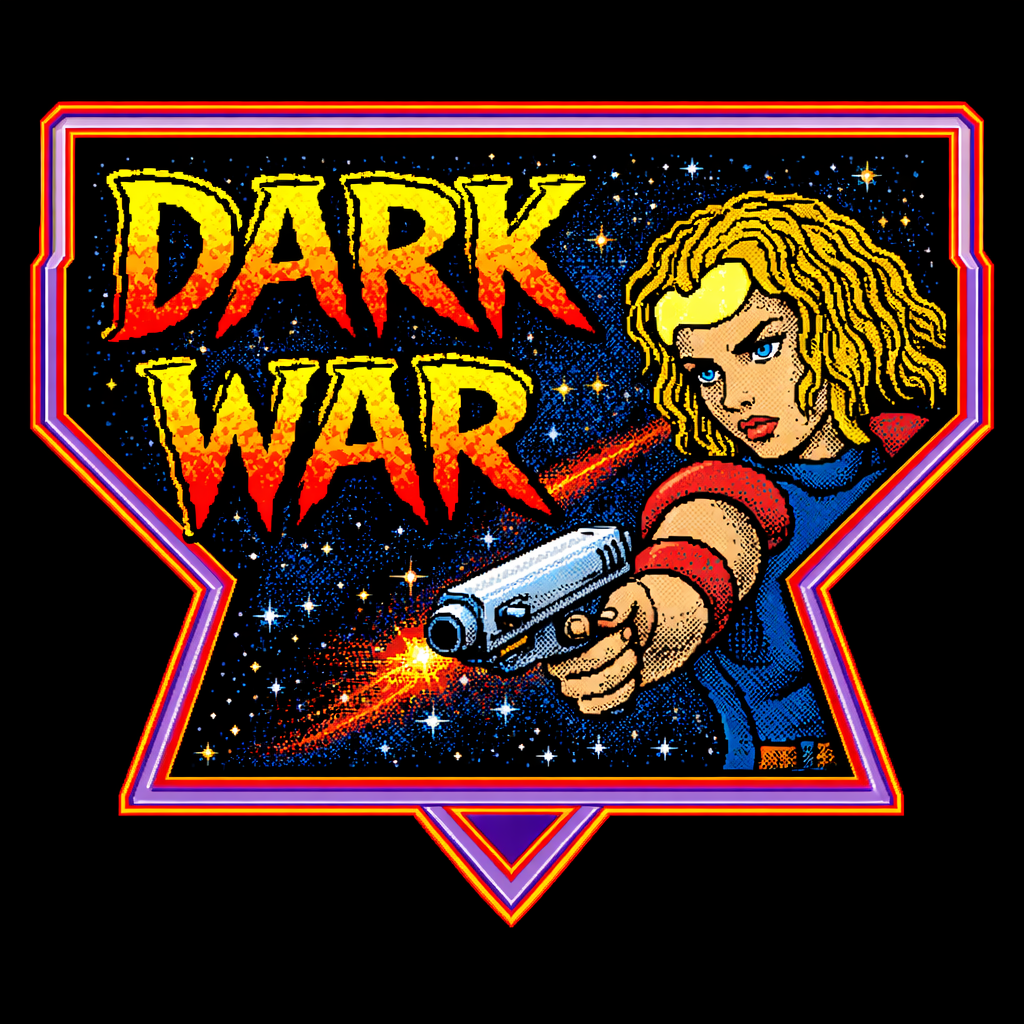
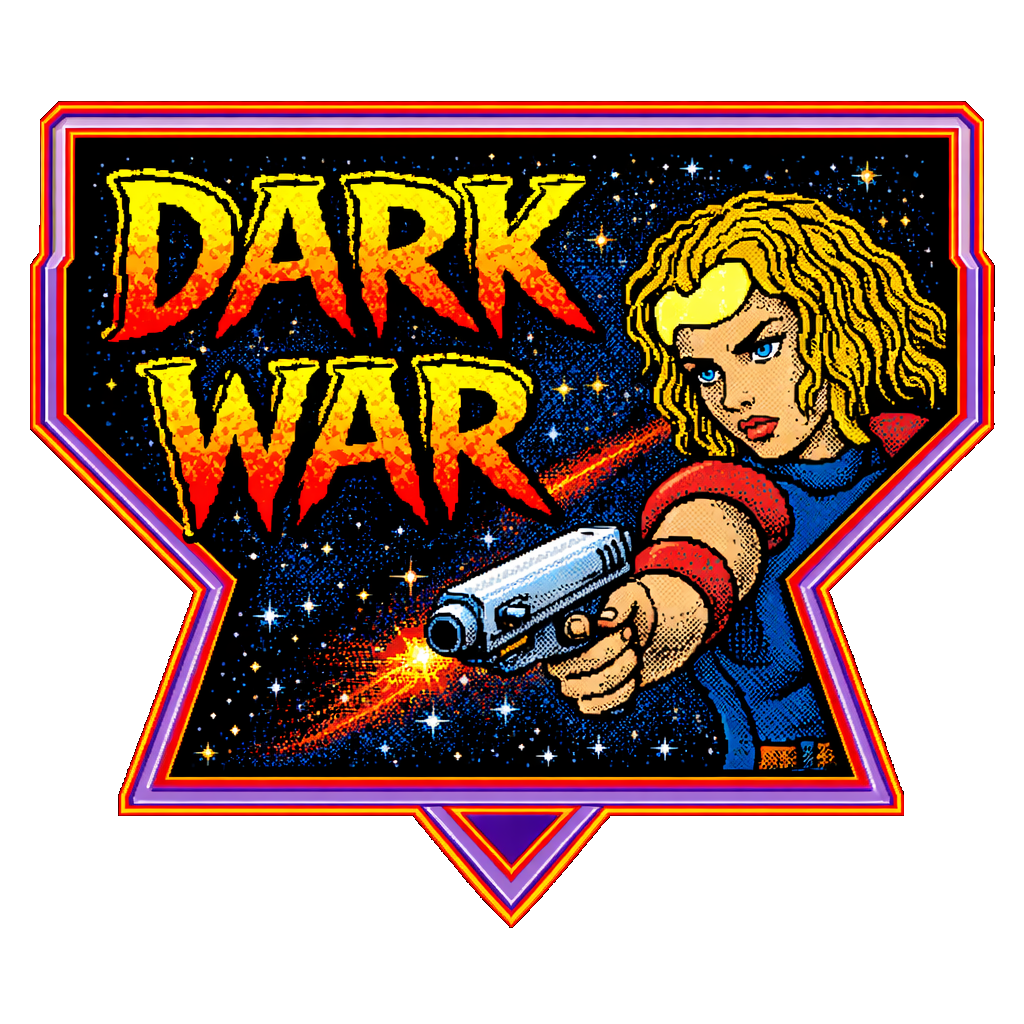
feat: improve title screens

diff --git a/src/systems/TitleScreen.ts b/src/systems/TitleScreen.ts
@@ -18,11 +18,72 @@ export class TitleScreen {
     const num = Math.floor(Math.random() * 7) + 1;
     const el = document.createElement("div");
     el.className = "title-screen";
-    el.innerHTML = `
-      <img src="assets/img/title-${num}.png" class="title-image" alt="Dark War" />
-      <div class="press-any-key">Press any key to start...</div>
-    `;
+
+    // Image starts invisible; shown after canvas processing removes the
+    // black background so there is no flash of the original black-bg version.
+    const img = document.createElement("img");
+    img.className = "title-image title-image--loading";
+    img.alt = "Dark War";
+
+    const text = document.createElement("div");
+    text.className = "press-any-key";
+    text.textContent = "Press any key to start...";
+
+    el.appendChild(img);
+    el.appendChild(text);
+
+    // Load image off-screen, strip black pixels, then reveal the result
+    const loader = new Image();
+    loader.src = `assets/img/title-${num}.png`;
+    loader.addEventListener(
+      "load",
+      () => {
+        this.stripBlackBackground(loader)
+          .then((url) => {
+            img.src = url;
+          })
+          .catch(() => {
+            // Fallback: show original (with black bg)
+            img.src = loader.src;
+          })
+          .finally(() => {
+            img.classList.remove("title-image--loading");
+          });
+      },
+      { once: true },
+    );
+
     return el;
+  }
+
+  /** Draws the image to an offscreen canvas and zeroes alpha on near-black pixels. */
+  private stripBlackBackground(source: HTMLImageElement): Promise<string> {
+    const canvas = document.createElement("canvas");
+    canvas.width = source.naturalWidth;
+    canvas.height = source.naturalHeight;
+
+    const ctx = canvas.getContext("2d");
+    if (!ctx) return Promise.reject(new Error("no 2d context"));
+
+    ctx.drawImage(source, 0, 0);
+    const imageData = ctx.getImageData(0, 0, canvas.width, canvas.height);
+    const { data } = imageData;
+
+    // Threshold: treat pixels where all channels < 12 as "black background"
+    for (let i = 0; i < data.length; i += 4) {
+      if (data[i] < 12 && data[i + 1] < 12 && data[i + 2] < 12) {
+        data[i + 3] = 0;
+      }
+    }
+
+    ctx.putImageData(imageData, 0, 0);
+
+    return new Promise<string>((resolve, reject) => {
+      canvas.toBlob((blob) => {
+        if (blob) resolve(URL.createObjectURL(blob));
+        else reject(new Error("toBlob failed"));
+      }, "image/png");
+    });
   }
 
   private playIntro(): void {
@@ -41,7 +102,6 @@ export class TitleScreen {
     if (this.dismissed) return;
     this.dismissed = true;
 
-    // Stop intro sound
     if (this.introAudio) {
       this.introAudio.pause();
       this.introAudio = null;
@@ -52,6 +112,7 @@ export class TitleScreen {
       "transitionend",
       () => {
         this.overlay.remove();
+        document.documentElement.classList.remove("title-screen-active");
         document.body.classList.remove("title-screen-active");
         this.onDismiss();
       },

diff --git a/app/assets/css/styles.css b/app/assets/css/styles.css
@@ -2,7 +2,10 @@
    Title-screen transparent-window phase
    Hide all game chrome so only the floating title image is seen.
    With transparent: true in Electron the desktop shows through.
+   Both html AND body must be transparent — html paints first and
+   would otherwise leave the blue --bg box visible underneath.
    ============================================================ */
+html.title-screen-active,
 body.title-screen-active {
   background: transparent !important;
 }
@@ -38,6 +41,12 @@ body.title-screen-active .app-container {
   object-fit: contain;
   display: block;
   image-rendering: pixelated;
+  transition: opacity 0.2s ease;
+}
+
+/* Hidden while the canvas strips the black background — prevents flash */
+.title-image--loading {
+  opacity: 0;
 }
 
 .press-any-key {

diff --git a/src/main.ts b/src/main.ts
@@ -1551,7 +1551,9 @@ const createDarkWarApp = (): void => {
   Sound.preload().catch(() => {});
   Music.load("assets/sounds/theme.ogg").catch(() => {});
 
-  // Show the title screen first — nothing else initialises until dismissed
+  // Show the title screen first — nothing else initialises until dismissed.
+  // Both html and body get the class so both transparent overrides fire.
+  document.documentElement.classList.add("title-screen-active");
   document.body.classList.add("title-screen-active");
   new TitleScreen(() => {
     Music.play();